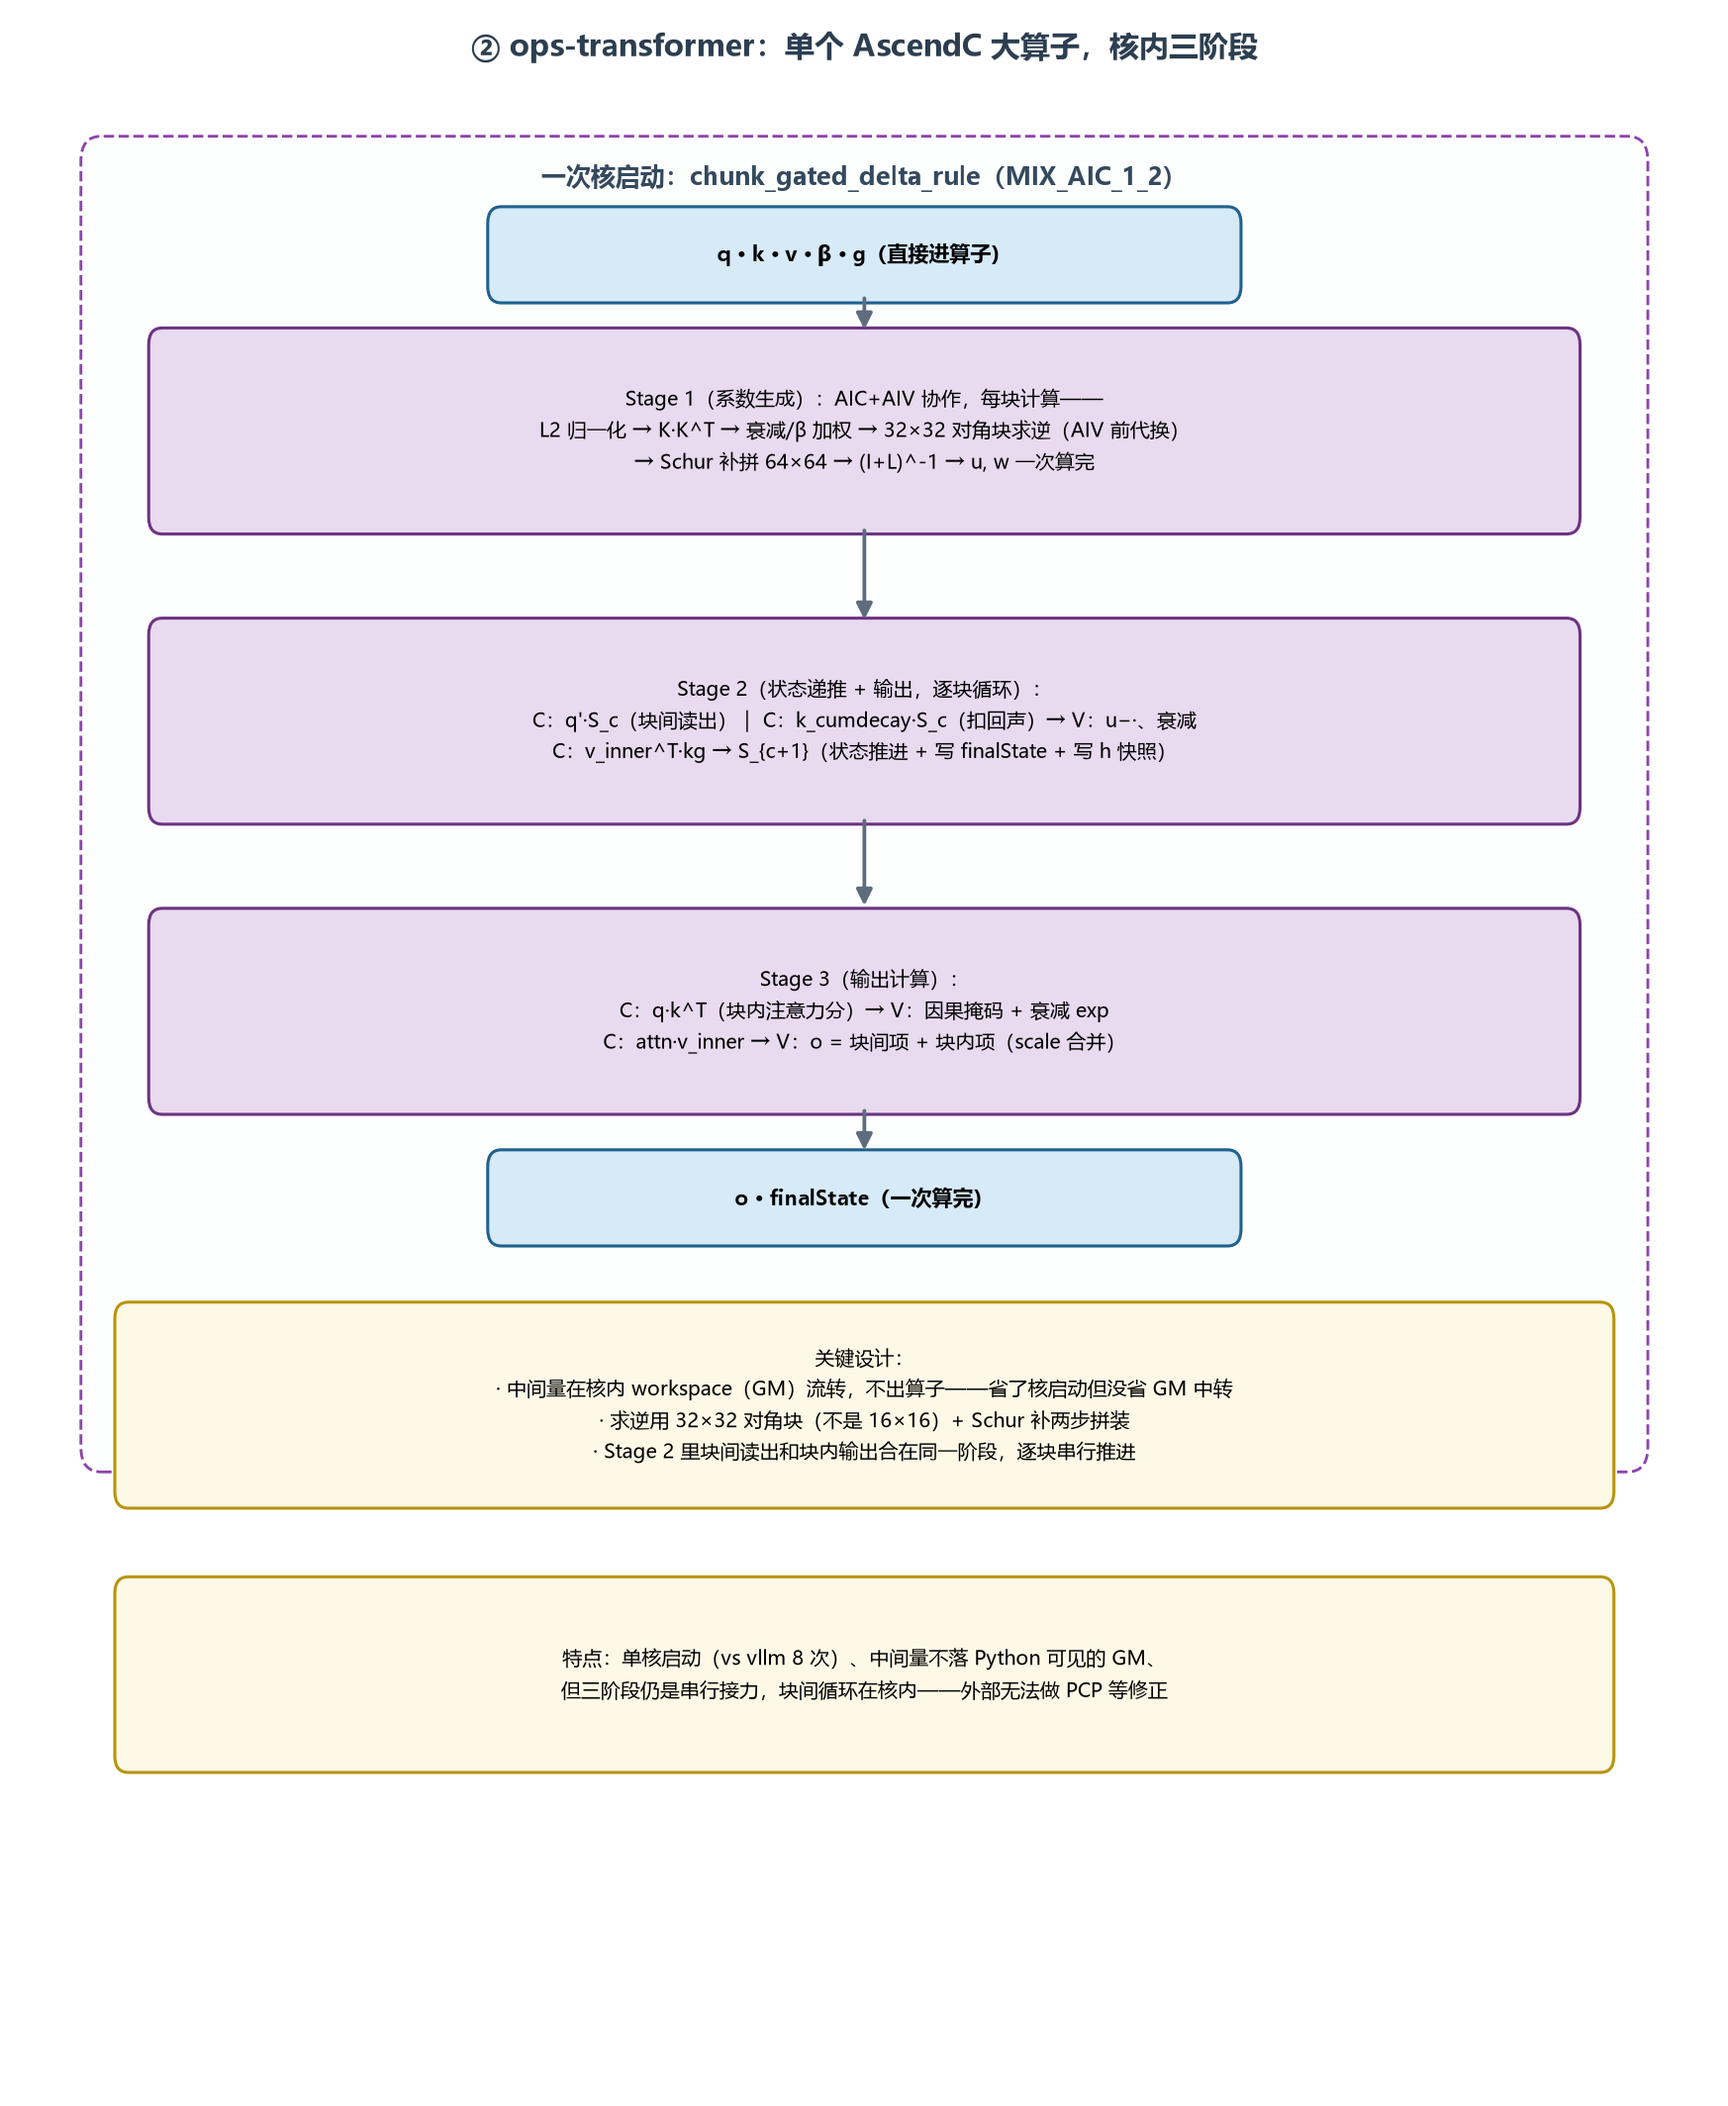
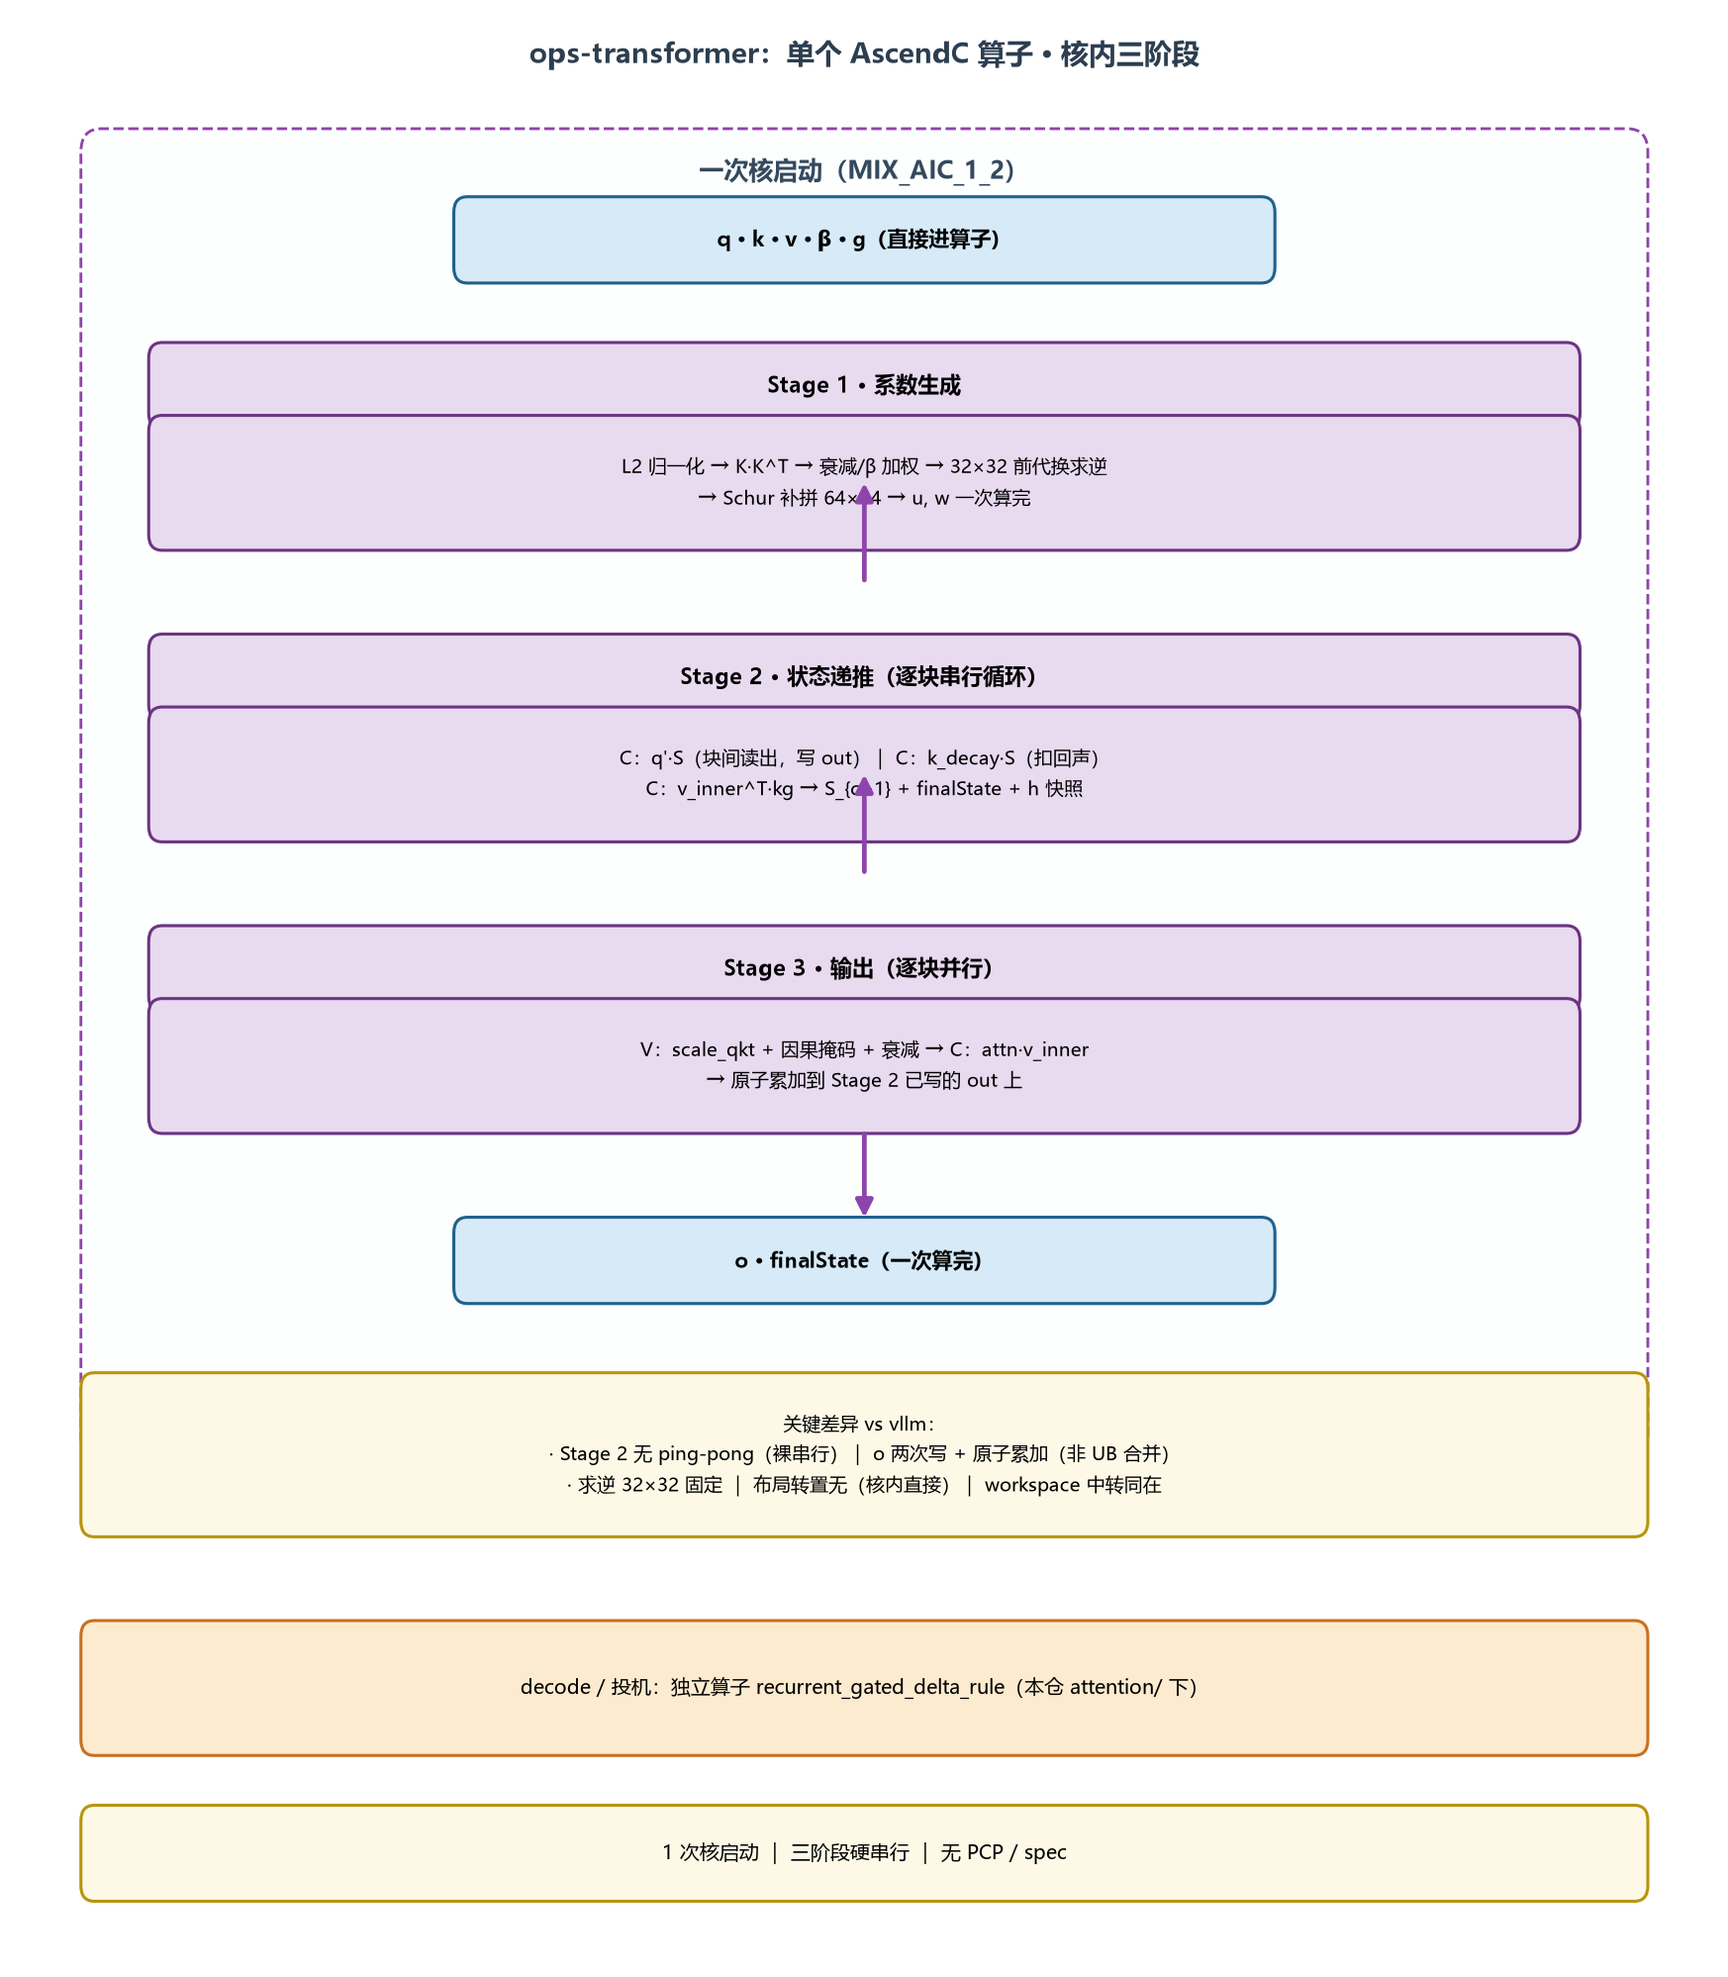
docs: fix comparison diagrams and add side-by-side view with decode paths
Redraw cmp_vllm_ascend.png with arrows drawn in the gaps between
boxes (previously inside the boxes) and remove the launch markers.
Update all three diagrams to include the decode/recurrent path (all
three repos ship a standalone recurrent_gated_delta_rule operator -
the fusion story only concerns the prefill chunk path). Add a new
side-by-side comparison image (cmp_three_side_by_side.png) putting
all three implementations in one figure, and document the decode-path
finding in the comparison doc.

diff --git a/GDN_Three_Repo_Comparison.md b/GDN_Three_Repo_Comparison.md
@@ -25,11 +25,27 @@
 | Python 编排自由度 | 高（PCP 修正、spec、CANN 回退都在 Python） | 低（算子内固定） | 低 |
 | 功能覆盖 | PCP / 投机 / 变长 / 图捕获 | 基础前向 | 基础前向（变长已修，PCP/spec 缺） |
 
+### decode 路径：三版都有，且同构
+
+三版都不只做 prefill 的 chunk 路径——**decode/投机走的逐 token 递推算子在三版里都独立存在**，且形态一致：
+
+| | 位置 | 说明 |
+|---|---|---|
+| vllm-ascend | `csrc/attention/recurrent_gated_delta_rule/`（AscendC） | 槽位原地更新、num_accepted_tokens 回卷（§5 已详述） |
+| ops-transformer | `attention/recurrent_gated_delta_rule/`（独立算子目录） | 同名算子，同款逐 token 递推 |
+| fla-npu | `fla/ops/ascendc/gdn/recurrent_gdn/recurrent_gated_delta_rule/` | 同名算子；Python 壳注册为 `npu_recurrent_gated_delta_rule` |
+
+也就是说，"chunk 融合"这条优化主线只作用于 prefill 路径；decode 路径在三版中本来就是单个算子、延迟形态，没有融合空间，三版基本照抄同一个设计。**差异全部集中在 prefill 的 chunk 路径上**——这也是本文对比的主体。
+
 ![vllm-ascend 六步流水线](gdn_diagrams/cmp_vllm_ascend.png)
 
 ![ops-transformer 单算子三阶段](gdn_diagrams/cmp_ops_transformer.png)
 
 ![fla-npu 单核 Phase6 全融合](gdn_diagrams/cmp_fla_npu.png)
+
+三版并排对比（一图总览）：
+
+![GDN 三版实现并排对比](gdn_diagrams/cmp_three_side_by_side.png)
 
 ---
 
